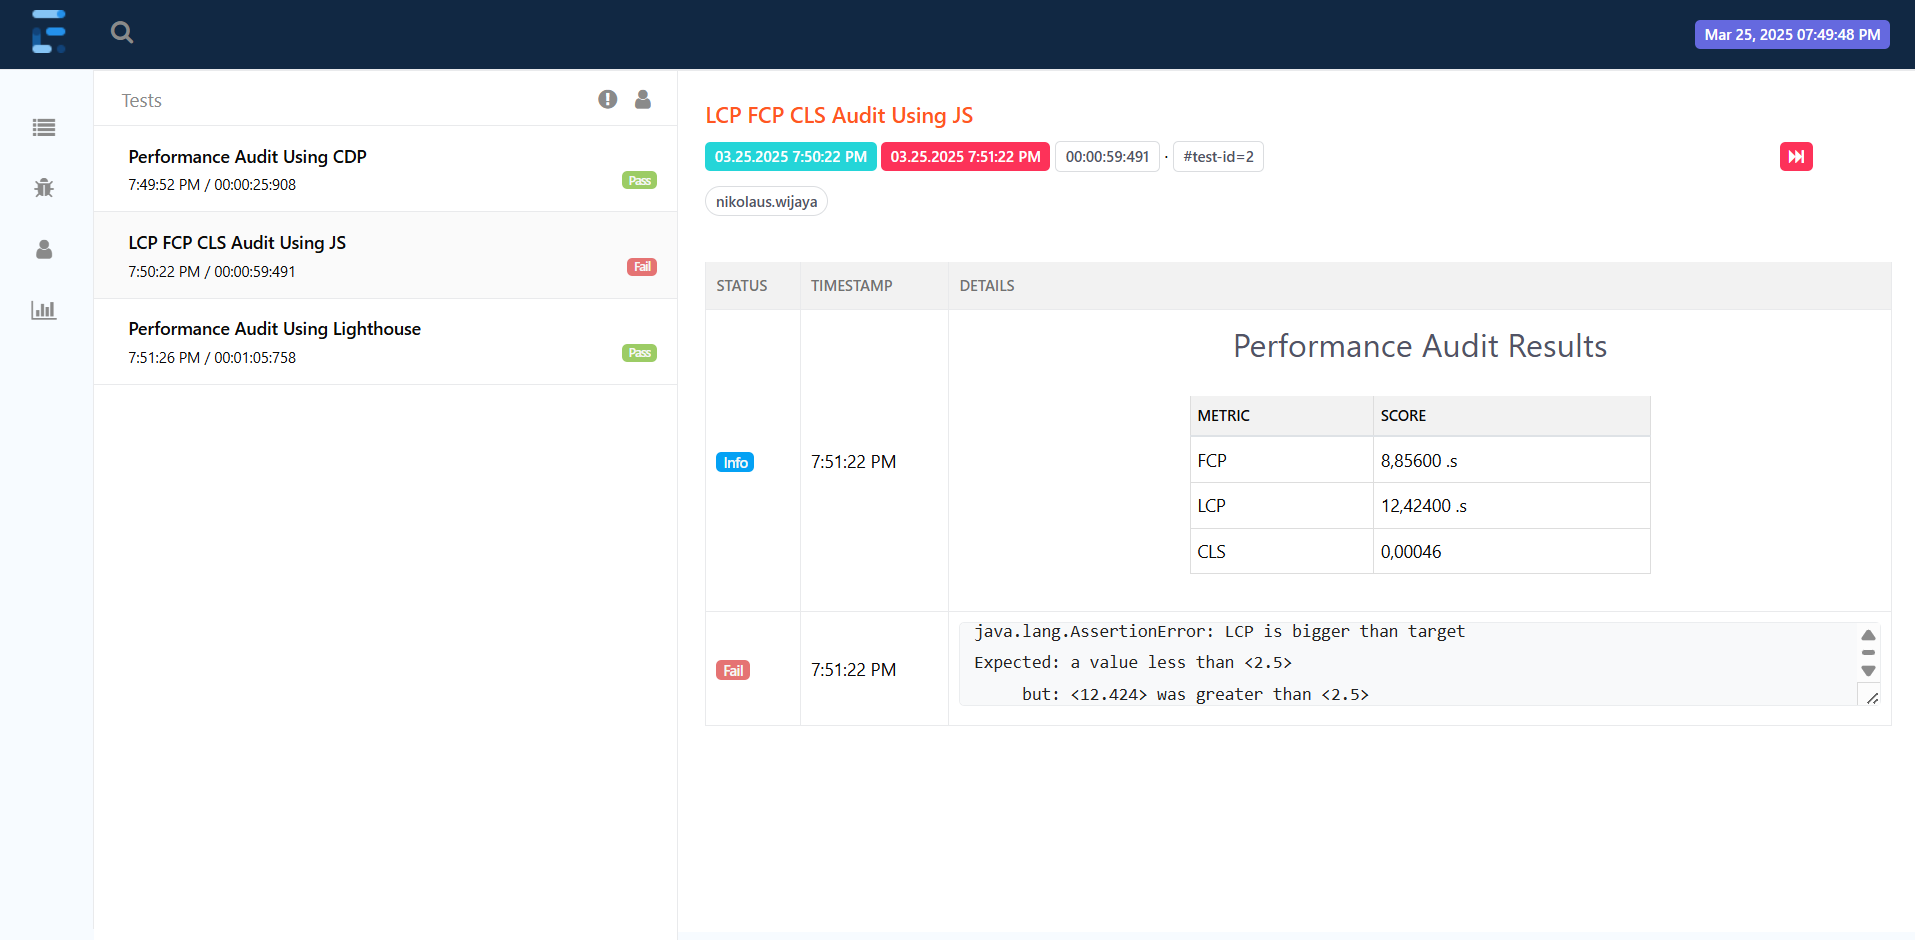
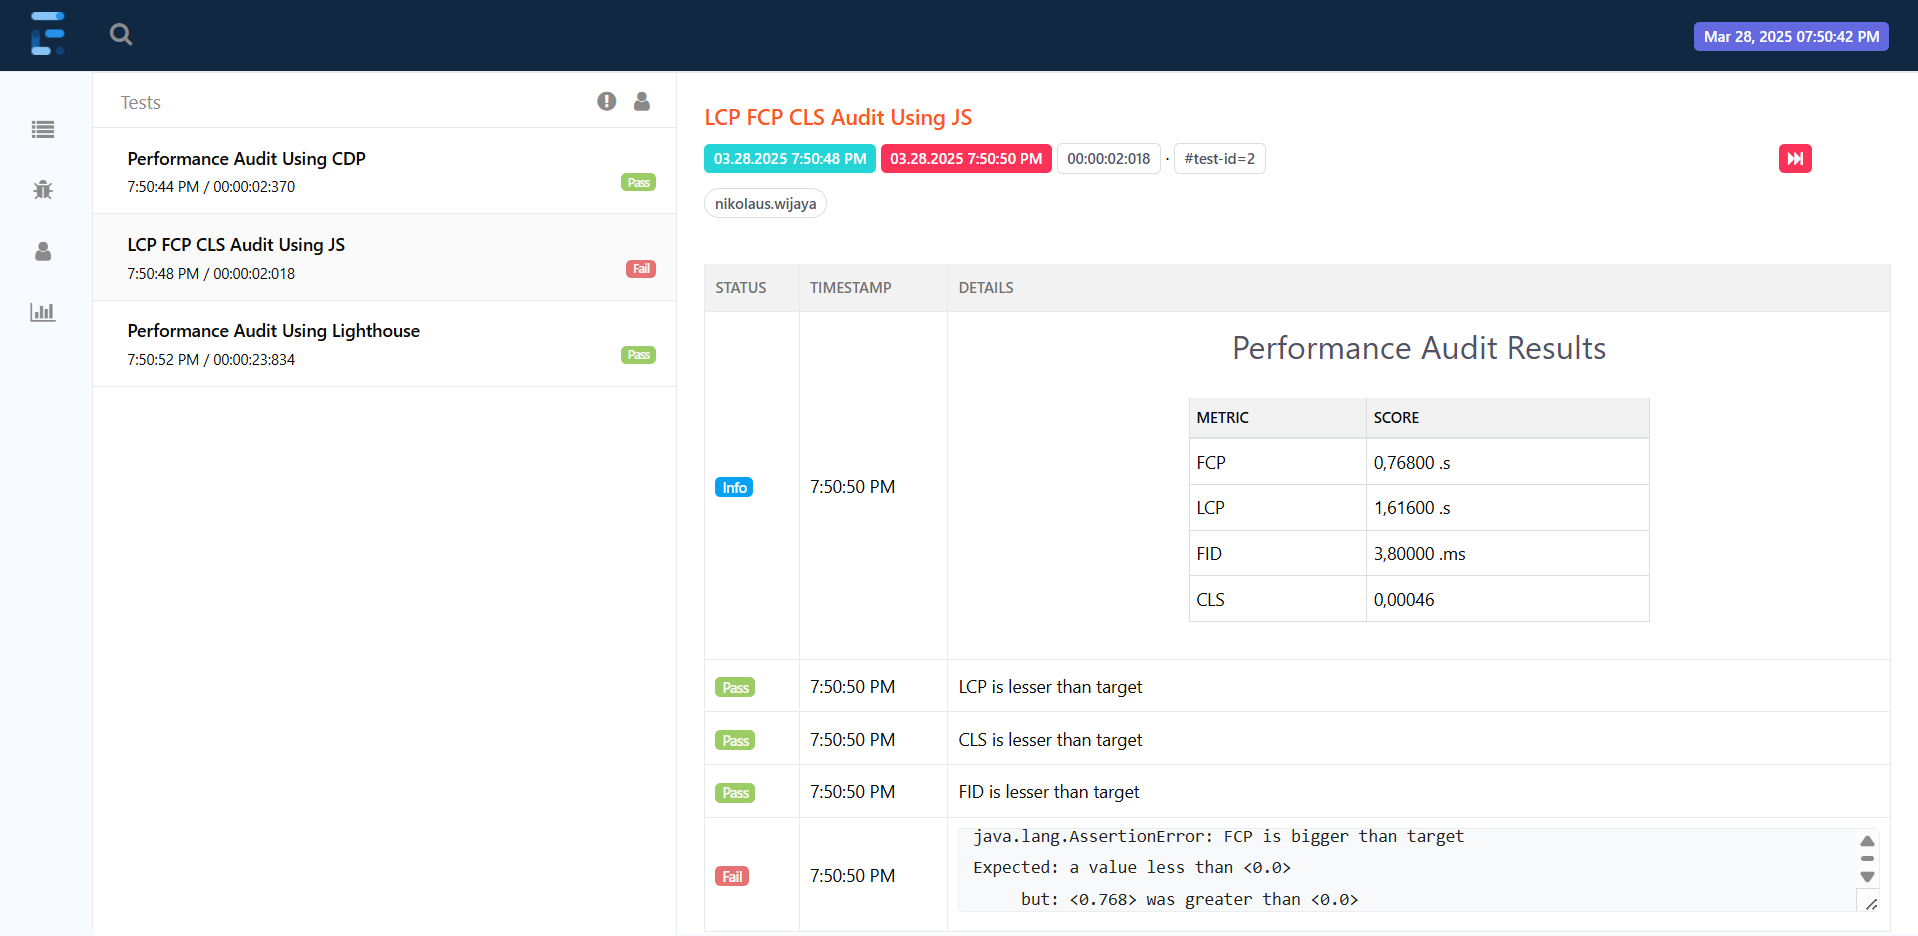
add FID extractor using JS executor

diff --git a/src/main/java/com/ary/qa/util/PerformanceAudit.java b/src/main/java/com/ary/qa/util/PerformanceAudit.java
@@ -2,8 +2,6 @@ package com.ary.qa.util;
 
 import com.ary.qa.constant.PerformanceMetric;
 import org.openqa.selenium.JavascriptExecutor;
-import org.openqa.selenium.WebDriver;
-import org.openqa.selenium.chrome.ChromeDriver;
 
 import java.io.BufferedReader;
 import java.io.IOException;
@@ -45,48 +43,65 @@ public class PerformanceAudit {
 
   public double getPerformanceMetricByJsScript(JavascriptExecutor js, PerformanceMetric audit) {
     double result = 0;
-    if (audit.equals(PerformanceMetric.CLS)) {
-      String script = "return new Promise((resolve) => {\n"
-          + "                new PerformanceObserver((entryList) => {\n"
-          + "                    const entries = entryList.getEntries();\n"
-          + "                    resolve(entries);\n"
-          + "                }).observe({ type: 'layout-shift', buffered: true });\n"
-          + "            });";
-      List<Map<String, Objects>> map = (List<Map<String, Objects>>) js.executeScript(script);
-      double totalCls = 0;
-      for (Map a : map) {
-        result = totalCls + Double.parseDouble(String.valueOf(a.get("value")));
-      }
-      System.out.println("CLS: " + totalCls);
-    } else if (audit.equals(PerformanceMetric.LCP)) {
-      String script = "return new Promise((resolve) => {\n"
-          + "                new PerformanceObserver((entryList) => {\n"
-          + "                    const entries = entryList.getEntries();\n"
-          + "                    const lcpEntry = entries[entries.length - 1];\n"
-          + "                    resolve(lcpEntry);\n"
-          + "                }).observe({ type: 'largest-contentful-paint', buffered: true });\n"
-          + "            });";
-      HashMap<String, Object> lcpResult = (HashMap<String, Object>) js.executeScript(script);
+    String script = "";
+    switch (audit) {
+      case CLS:
+        script = "return new Promise((resolve) => {\n"
+            + "                new PerformanceObserver((entryList) => {\n"
+            + "                    const entries = entryList.getEntries();\n"
+            + "                    resolve(entries);\n"
+            + "                }).observe({ type: 'layout-shift', buffered: true });\n"
+            + "            });";
+        List<Map<String, Objects>> map = (List<Map<String, Objects>>) js.executeScript(script);
+        double totalCls = 0;
+        for (Map a : map) {
+          result = totalCls + Double.parseDouble(String.valueOf(a.get("value")));
+        }
+        System.out.println("CLS: " + totalCls);
+        break;
+      case LCP:
+        script = "return new Promise((resolve) => {\n"
+            + "                new PerformanceObserver((entryList) => {\n"
+            + "                    const entries = entryList.getEntries();\n"
+            + "                    const lcpEntry = entries[entries.length - 1];\n"
+            + "                    resolve(lcpEntry);\n"
+            + "                }).observe({ type: 'largest-contentful-paint', buffered: true });\n"
+            + "            });";
+        HashMap<String, Object> lcpResult = (HashMap<String, Object>) js.executeScript(script);
 
-      //      LCP usualy using renderTime, but if there is no render time will used loadtime
-      if (lcpResult.get("renderTime")!=null) {
-        result= Double.parseDouble(String.valueOf(lcpResult.get("renderTime"))) / 1000;
-      }else{
-        result= Double.parseDouble(String.valueOf(lcpResult.get("loadTime"))) / 1000;
-      }
-      System.out.println("LCP: " + result);
-    }else if (audit.equals(PerformanceMetric.FCP)) {
-      String script = "return new Promise((resolve) => {\n"
-          + "                new PerformanceObserver((entryList) => {\n"
-          + "                    const entries = entryList.getEntries();\n"
-          + "                    const fcpEntry = entries[0];\n"
-          + "                    resolve(fcpEntry);\n"
-          + "                }).observe({ type: 'paint', name: 'first-contentful-paint', buffered: true });\n"
-          + "            });";
+        //      LCP usualy using renderTime, but if there is no render time will used loadtime
+        if (lcpResult.get("renderTime") != null) {
+          result = Double.parseDouble(String.valueOf(lcpResult.get("renderTime"))) / 1000;
+        } else {
+          result = Double.parseDouble(String.valueOf(lcpResult.get("loadTime"))) / 1000;
+        }
+        System.out.println("LCP: " + result);
+        break;
+      case FCP:
+        script = "return new Promise((resolve) => {\n"
+            + "                new PerformanceObserver((entryList) => {\n"
+            + "                    const entries = entryList.getEntries();\n"
+            + "                    const fcpEntry = entries[0];\n"
+            + "                    resolve(fcpEntry);\n"
+            + "                }).observe({ type: 'paint', name: 'first-contentful-paint', buffered: true });\n"
+            + "            });";
 
-      HashMap<String, Objects>fcpResult = (HashMap<String, Objects>) js.executeScript(script);
-      result= Double.parseDouble(String.valueOf(fcpResult.get("startTime")))/1000;
-      System.out.println("FCP: " + result);
+        HashMap<String, Objects> fcpResult = (HashMap<String, Objects>) js.executeScript(script);
+        result = Double.parseDouble(String.valueOf(fcpResult.get("startTime"))) / 1000;
+        System.out.println("FCP: " + result);
+        break;
+      case FID:
+        script = "return new Promise((resolve) => {\n"
+            + "                new PerformanceObserver((entryList) => {\n"
+            + "                    const entries = entryList.getEntries();\n"
+            + "                    resolve(entries);\n"
+            + "                }).observe({ type: 'first-input', buffered: true });\n"
+            + "            });";
+        List<Map<String, Object>> fid = (List<Map<String, Object>>) js.executeScript(script);
+        result=Double.parseDouble(fid.get(0).get("processingStart").toString())
+            -Double.parseDouble(fid.get(0).get("startTime").toString());
+        System.out.println("FID: " + result);
+        break;
     }
 
     return result;

diff --git a/src/test/java/com/ary/qa/JsPerformanceMetric.java b/src/test/java/com/ary/qa/JsPerformanceMetric.java
@@ -6,6 +6,7 @@ import com.ary.qa.util.FileReaderWriterUtility;
 import com.ary.qa.util.PerformanceAudit;
 import com.aventstack.extentreports.Status;
 import org.hamcrest.Matchers;
+import org.openqa.selenium.By;
 import org.testng.annotations.Optional;
 import org.testng.annotations.Parameters;
 import org.testng.annotations.Test;
@@ -28,9 +29,14 @@ public class JsPerformanceMetric extends BaseClass {
     double fcp = audit.getPerformanceMetricByJsScript(jsExecutor, PerformanceMetric.FCP);
     double cls = audit.getPerformanceMetricByJsScript(jsExecutor, PerformanceMetric.CLS);
 
+//    click search textbox
+    driver.findElement(By.xpath(".//input[@name='search_query']")).click();
+    double fid = audit.getPerformanceMetricByJsScript(jsExecutor, PerformanceMetric.FID);
+
     StringBuilder rows = new StringBuilder();
     rows.append("<tr><td>FCP</td><td>").append(String.format("%.5f .s", fcp)).append("</td></tr>");
     rows.append("<tr><td>LCP</td><td>").append(String.format("%.5f .s", lcp)).append("</td></tr>");
+    rows.append("<tr><td>FID</td><td>").append(String.format("%.5f .ms", fid)).append("</td></tr>");
     rows.append("<tr><td>CLS</td><td>").append(String.format("%.5f", cls)).append("</td></tr>");
     templateReport = templateReport.replace("<!--replace_here-->", rows.toString());
     templateReport=templateReport.replace("{title}","Performance");
@@ -44,7 +50,9 @@ public class JsPerformanceMetric extends BaseClass {
     extentTest.pass("LCP is lesser than target");
     assertThat("CLS is bigger than target", cls, Matchers.lessThan(0.1));
     extentTest.pass("CLS is lesser than target");
+    assertThat("FID is bigger than target", cls, Matchers.lessThan(200.0));
+    extentTest.pass("FID is lesser than target");
     assertThat("FCP is bigger than target", fcp, Matchers.lessThan(0.0));
-
+    extentTest.pass("FCP is lesser than target");
   }
 }

diff --git a/src/test/java/com/ary/qa/exampleBasicIntegration/ExtractFid.java b/src/test/java/com/ary/qa/exampleBasicIntegration/ExtractFid.java
@@ -1,0 +1,33 @@
+package com.ary.qa.exampleBasicIntegration;
+
+import org.openqa.selenium.By;
+import org.openqa.selenium.JavascriptExecutor;
+import org.openqa.selenium.WebDriver;
+import org.openqa.selenium.chrome.ChromeDriver;
+import org.testng.annotations.Test;
+
+import java.util.List;
+import java.util.Map;
+
+public class ExtractFid {
+
+  @Test
+  public void testExtractFid() {
+    WebDriver driver = new ChromeDriver();
+    driver.get("https://www.youtube.com/");
+    String script = "return new Promise((resolve) => {\n"
+        + "                new PerformanceObserver((entryList) => {\n"
+        + "                    const entries = entryList.getEntries();\n"
+        + "                    resolve(entries);\n"
+        + "                }).observe({ type: 'first-input', buffered: true });\n"
+        + "            });";
+
+    JavascriptExecutor js = (JavascriptExecutor) driver;
+    driver.findElement(By.xpath(".//input[@name='search_query']")).click();
+    List<Map<String, Object>> fid = (List<Map<String, Object>>) js.executeScript(script);
+
+    double resultFid = Double.parseDouble(fid.get(0).get("processingStart").toString())
+        -Double.parseDouble(fid.get(0).get("startTime").toString());
+    System.out.println("FID: "+resultFid);
+  }
+}

diff --git a/src/main/java/com/ary/qa/constant/PerformanceMetric.java b/src/main/java/com/ary/qa/constant/PerformanceMetric.java
@@ -1,5 +1,5 @@
 package com.ary.qa.constant;
 
 public enum PerformanceMetric {
-  LCP,CLS,FCP
+  LCP,CLS,FCP,FID
 }
